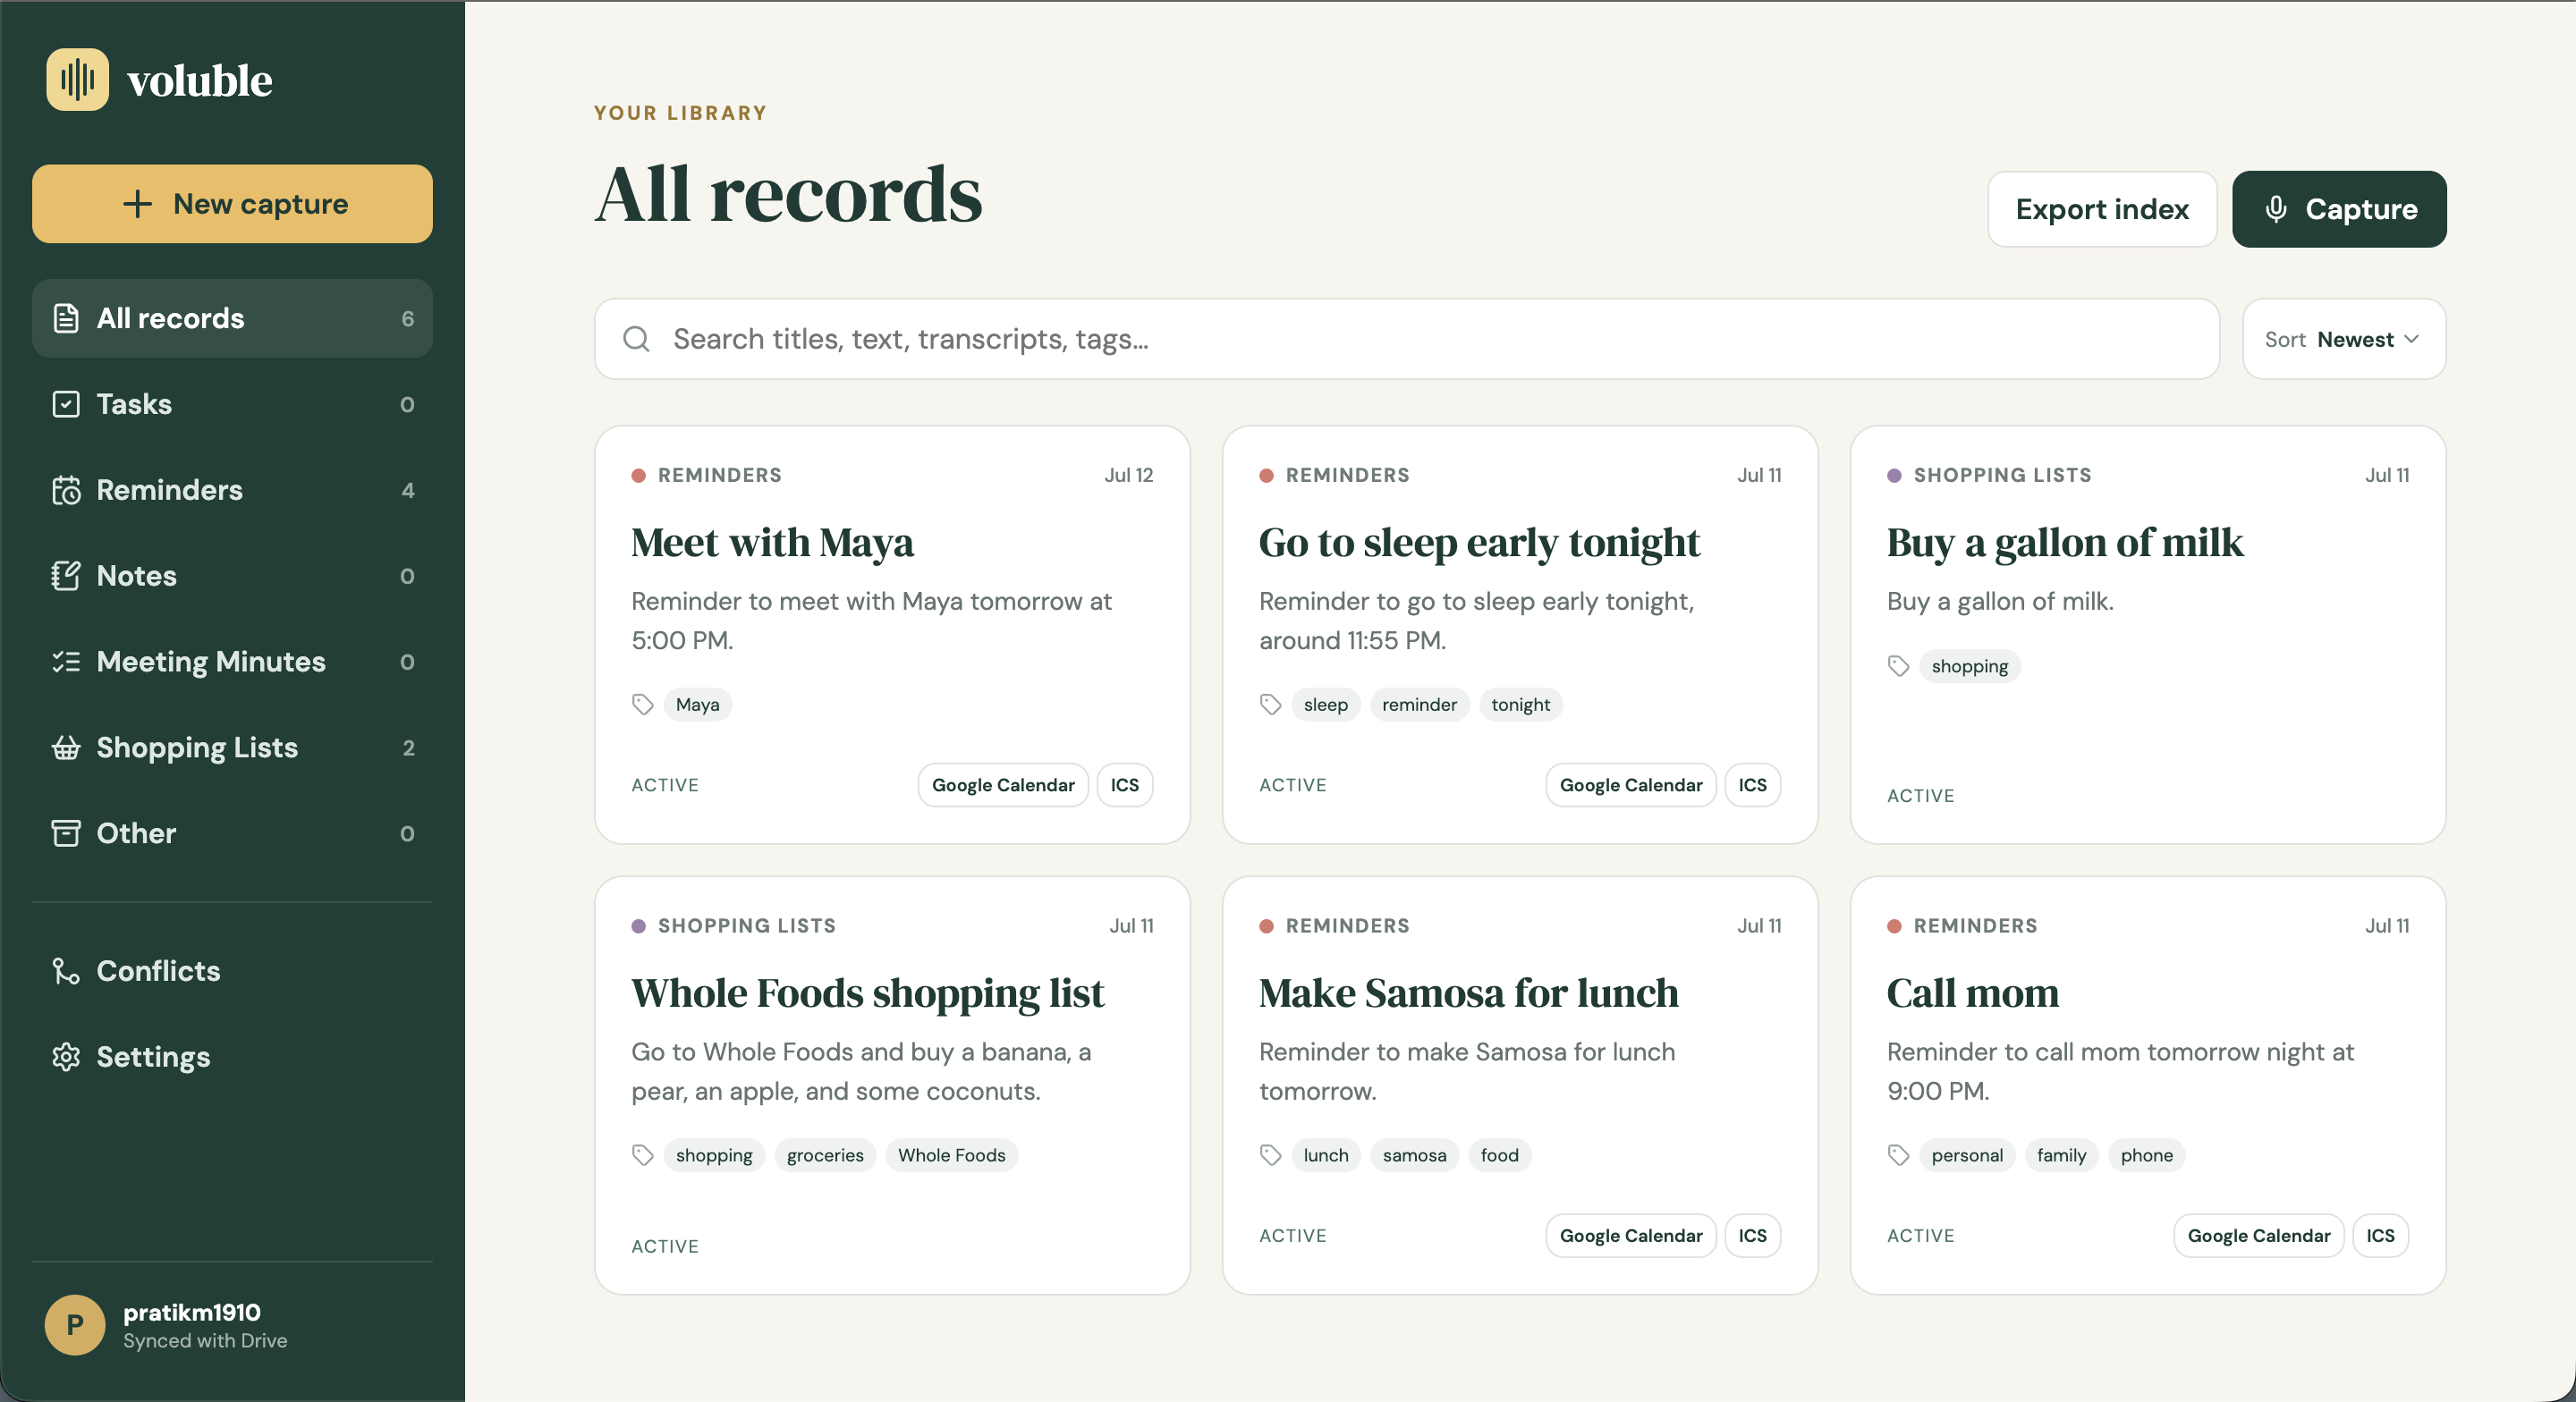
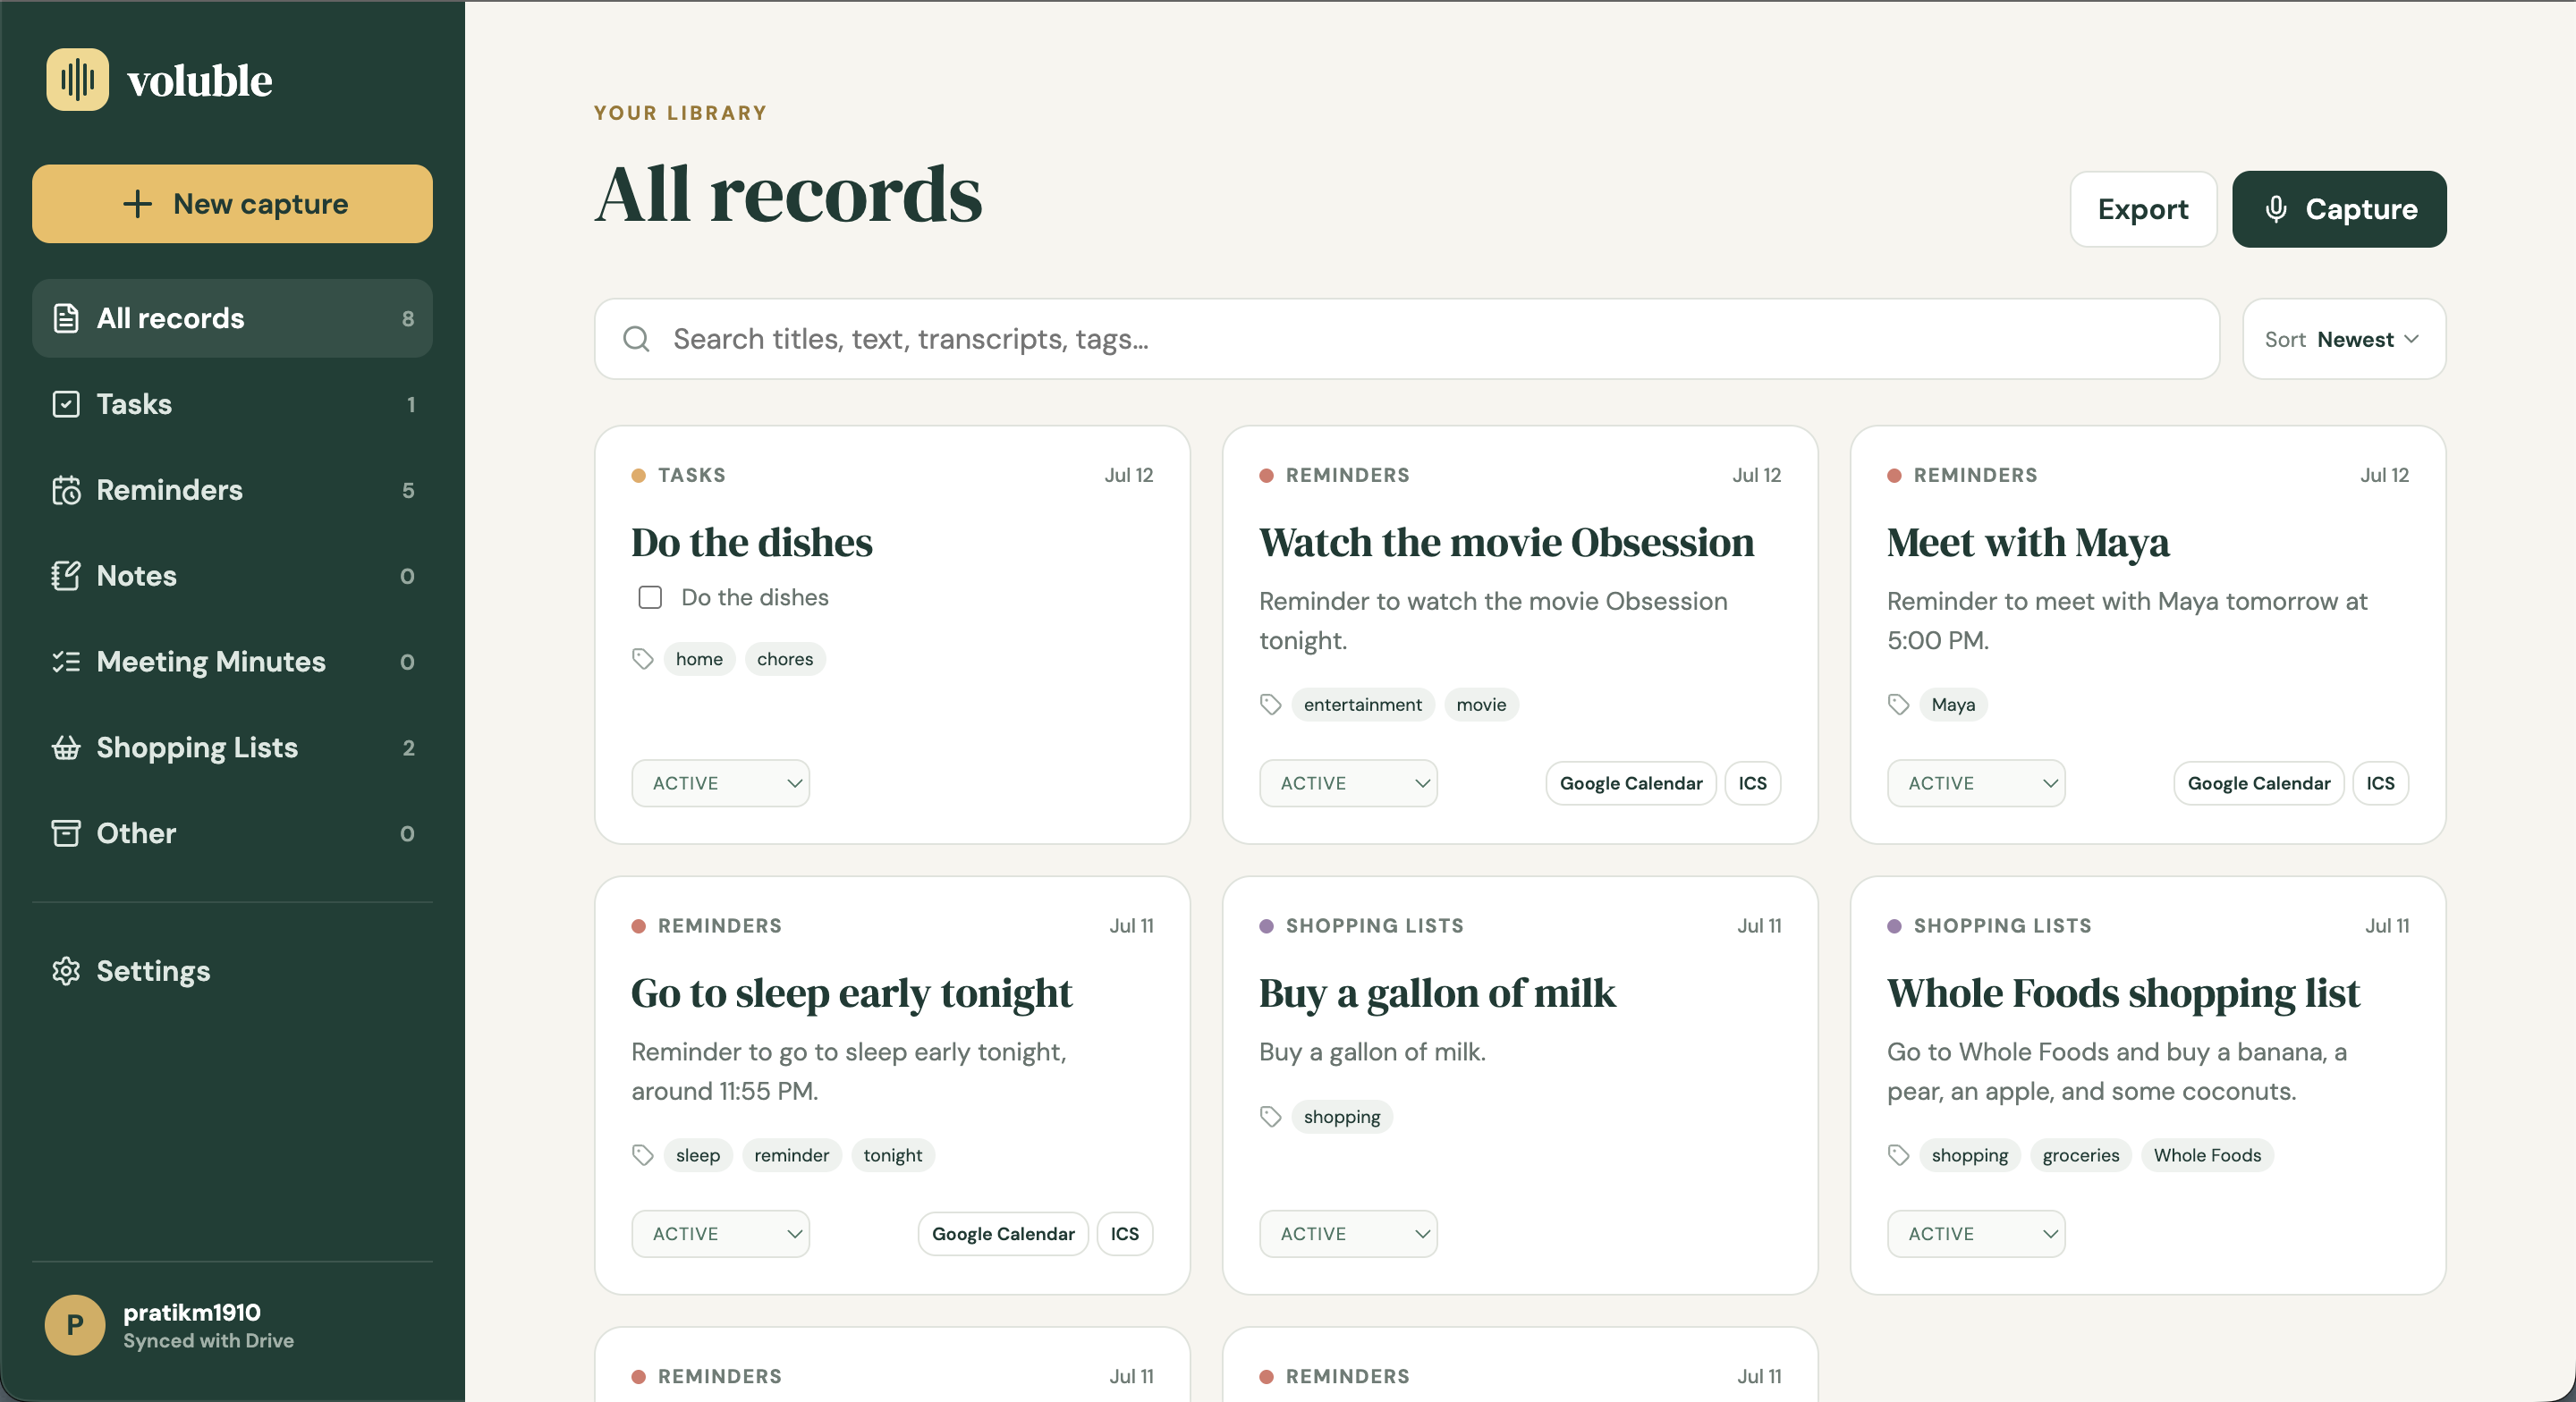
Update onboarding flow, misc feature improvements

diff --git a/src/components/RecordEditor.tsx b/src/components/RecordEditor.tsx
@@ -8,6 +8,8 @@ type Props = { record: VolubleRecord; timezone: string; onSave(record: VolubleRe
 export function RecordEditor({ record, timezone, onSave, onTrash, onClose }: Props) {
   const [draft, setDraft] = useState(record);
   const [eventTimezone, setEventTimezone] = useState(timezone);
+  const checklistKind = draft.category === 'Tasks' ? 'subtask' : 'shopping item';
+  const showsChecklist = draft.category === 'Tasks' || draft.category === 'Shopping Lists';
   useEffect(() => { setDraft(record); setEventTimezone(timezone); }, [record, timezone]);
   const update = <K extends keyof VolubleRecord>(key: K, value: VolubleRecord[K]) => setDraft((current) => ({ ...current, [key]: value }));
   const save = () => onSave(recordSchema.parse({
@@ -16,7 +18,10 @@ export function RecordEditor({ record, timezone, onSave, onTrash, onClose }: Pro
     event: draft.category === 'Reminders' ? draft.event : undefined,
     updatedAt: new Date().toISOString()
   }));
-  const updateItem = (id: string, value: Partial<VolubleRecord['tasks'][number]>) => update('tasks', draft.tasks.map((item) => item.id === id ? { ...item, ...value } : item));
+  const updateItem = (id: string, value: Partial<VolubleRecord['tasks'][number]>) => setDraft((current) => {
+    const tasks = current.tasks.map((item) => item.id === id ? { ...item, ...value } : item);
+    return { ...current, tasks, ...('completed' in value ? { status: tasks.length > 0 && tasks.every((item) => item.completed) ? 'completed' as const : 'active' as const } : {}) };
+  });
   return <div className="modal-backdrop" role="presentation" onMouseDown={(event) => event.target === event.currentTarget && onClose()}>
     <section className="editor" role="dialog" aria-modal="true" aria-label="Edit record">
       <header><div><span className="eyebrow">Edit record</span><input className="title-input" value={draft.title} onChange={(event) => update('title', event.target.value)} /></div><button className="icon-button" onClick={onClose} aria-label="Close"><X /></button></header>
@@ -25,13 +30,13 @@ export function RecordEditor({ record, timezone, onSave, onTrash, onClose }: Pro
         <label>Status<select value={draft.status} onChange={(event) => update('status', event.target.value as VolubleRecord['status'])}><option value="active">Active</option><option value="completed">Completed</option><option value="archived">Archived</option><option value="pending-processing">Pending</option></select></label>
         <label className="wide">Tags<input value={draft.tags.join(', ')} placeholder="work, follow-up" onChange={(event) => update('tags', event.target.value.split(',').map((tag) => tag.trim()).filter(Boolean))} /></label>
         <label className="wide">Text<textarea rows={9} value={draft.content} onChange={(event) => update('content', event.target.value)} /></label>
-        {draft.category === 'Shopping Lists' && <section className="shopping-checklist wide" aria-labelledby="shopping-items-heading">
-          <div className="shopping-checklist-heading"><div><h3 id="shopping-items-heading">Items to buy</h3><span>{draft.tasks.filter((item) => item.completed).length} of {draft.tasks.length} checked</span></div><button type="button" onClick={() => update('tasks', [...draft.tasks, { id: crypto.randomUUID(), text: '', completed: false }])}><Plus size={15} /> Add item</button></div>
+        {showsChecklist && <section className="shopping-checklist wide" aria-labelledby="checklist-items-heading">
+          <div className="shopping-checklist-heading"><div><h3 id="checklist-items-heading">{draft.category === 'Tasks' ? 'Subtasks' : 'Items to buy'}</h3><span>{draft.tasks.filter((item) => item.completed).length} of {draft.tasks.length} checked</span></div><button type="button" onClick={() => update('tasks', [...draft.tasks, { id: crypto.randomUUID(), text: '', completed: false }])}><Plus size={15} /> Add {checklistKind}</button></div>
           {draft.tasks.length ? <div className="shopping-items">{draft.tasks.map((item, index) => <div className={`shopping-item ${item.completed ? 'checked' : ''}`} key={item.id}>
-            <input type="checkbox" aria-label={`Mark ${item.text || `item ${index + 1}`} as bought`} checked={item.completed} onChange={(event) => updateItem(item.id, { completed: event.target.checked })} />
-            <input aria-label={`Shopping item ${index + 1}`} value={item.text} placeholder="Item to buy" onChange={(event) => updateItem(item.id, { text: event.target.value })} />
-            <button type="button" className="icon-button" aria-label={`Remove ${item.text || `item ${index + 1}`}`} onClick={() => update('tasks', draft.tasks.filter((candidate) => candidate.id !== item.id))}><X size={16} /></button>
-          </div>)}</div> : <p>Add each item you need to buy.</p>}
+            <input type="checkbox" aria-label={`Mark ${item.text || `${checklistKind} ${index + 1}`} as complete`} checked={item.completed} onChange={(event) => updateItem(item.id, { completed: event.target.checked })} />
+            <input aria-label={`${draft.category === 'Tasks' ? 'Subtask' : 'Shopping item'} ${index + 1}`} value={item.text} placeholder={draft.category === 'Tasks' ? 'Subtask' : 'Item to buy'} onChange={(event) => updateItem(item.id, { text: event.target.value })} />
+            <button type="button" className="icon-button" aria-label={`Remove ${item.text || `${checklistKind} ${index + 1}`}`} onClick={() => update('tasks', draft.tasks.filter((candidate) => candidate.id !== item.id))}><X size={16} /></button>
+          </div>)}</div> : <p>{draft.category === 'Tasks' ? 'Break this task into smaller steps.' : 'Add each item you need to buy.'}</p>}
         </section>}
         {draft.originalTranscript && <details className="transcript-details wide"><summary>Original transcript</summary><div>{draft.originalTranscript}</div></details>}
         {draft.category === 'Reminders' && <label className="event-toggle wide"><input type="checkbox" checked={Boolean(draft.event)} onChange={(event) => update('event', event.target.checked ? { start: new Date().toISOString(), allDay: false } : undefined)} /><Calendar size={18} /> Calendar event</label>}

diff --git a/src/App.tsx b/src/App.tsx
@@ -1,5 +1,5 @@
 import { useEffect, useMemo, useRef, useState } from 'react';
-import { Archive, CalendarClock, CheckSquare2, ChevronDown, CircleAlert, FileText, FolderPlus, ListChecks, LogOut, Menu, Mic, NotebookPen, Plus, Search, Settings as SettingsIcon, ShoppingBasket, Sparkles, X } from 'lucide-react';
+import { Archive, CalendarClock, CheckSquare2, ChevronDown, CircleAlert, FileText, FolderPlus, KeyRound, ListChecks, LogOut, Menu, Mic, NotebookPen, Plus, Search, Settings as SettingsIcon, ShoppingBasket, Sparkles, X } from 'lucide-react';
 import { ApiError, api } from './api/client';
 import { categories, createRecord, recordSchema, type Category, type VolubleRecord } from './domain/record';
 import { repairTranscript } from './domain/markdown';
@@ -161,6 +161,7 @@ export default function App() {
 
   const nav = <aside className={mobileNav ? 'sidebar open' : 'sidebar'}><div className="sidebar-top"><Brand /><button className="icon-button nav-close" onClick={() => setMobileNav(false)}><X /></button></div><button className="new-capture" onClick={() => { startCapture(); setMobileNav(false); }}><Plus /> New capture</button><nav className="side-nav"><button className={view === 'All' ? 'selected' : ''} onClick={() => setView('All')}><FileText /> All records <span>{records.length}</span></button>{categories.map((category) => { const Icon = iconFor[category]; return <button key={category} className={view === category ? 'selected' : ''} onClick={() => { setView(category); setMobileNav(false); }}><Icon /> {category}<span>{records.filter((record) => record.category === category).length}</span></button>; })}<hr /><button className={view === 'Settings' ? 'selected' : ''} onClick={() => setView('Settings')}><SettingsIcon /> Settings</button></nav><div className="profile-control"><button className="user-card" onClick={() => setProfileOpen((open) => !open)}><div>{session.user.email.slice(0, 1).toUpperCase()}</div><span><strong>{session.user.email.split('@')[0]}</strong><small>{sync === 'idle' ? 'Synced with Drive' : sync === 'syncing' ? 'Syncing…' : sync === 'offline' ? 'Offline' : sync === 'disconnected' ? 'Drive disconnected' : 'Pending sync'}</small></span></button>{profileOpen && <div className="profile-menu"><span>{session.user.email}</span><button onClick={() => void profileLogout()}><LogOut size={15} /> Log out</button></div>}</div></aside>;
   return <div className="app-shell">{nav}<main className="content"><header className="mobile-header"><button className="icon-button" onClick={() => setMobileNav(true)}><Menu /></button><Brand /><button className="icon-button" onClick={startCapture}><Mic /></button></header>{message && <div className={`banner ${sync === 'disconnected' ? 'error' : ''}`}><CircleAlert /> {message}{sync === 'disconnected' && <a className="button-link" href="/api/auth/login">Reconnect</a>}<button onClick={() => setMessage('')}><X /></button></div>}
+    {session.drive.folderId && !providerConfigured && <div className="onboarding"><KeyRound /><div><strong>Add your provider API key</strong><p>Your Drive folder is ready. Add an OpenAI or Gemini API key in Settings before starting your first capture.</p></div><div className="folder-actions"><button className="primary" onClick={() => { setView('Settings'); setMobileNav(false); }}>Open Settings</button></div></div>}
     {view === 'Settings' ? <Settings preferences={preferences} onPreferences={setPreferences} folderId={session.drive.folderId} onChooseFolder={() => void chooseFolder()} onCreateFolder={() => setNewFolderOpen(true)} onSignedOut={() => setSession(undefined)} onNotice={setMessage} onProviderConfigured={() => { setProviderConfigured(true); setMessage('Provider key saved. You are ready to capture.'); }} /> : <>
       <div className="section-heading library-heading"><div><span className="eyebrow">Your library</span><h1>{view === 'All' ? 'All records' : view}</h1></div><div className="heading-actions"><button onClick={() => setExportOpen(true)}>Export</button><button className="primary desktop-capture" onClick={startCapture}><Mic size={17} /> Capture</button></div></div>
       {!session.drive.folderId && <div className="onboarding"><CloudIcon /><div><strong>Choose your Voluble folder</strong><p>Use an existing folder or create a new one in My Drive. Voluble will never silently switch it.</p></div><div className="folder-actions"><button onClick={() => setNewFolderOpen(true)}><FolderPlus size={17} /> Create new folder</button><button className="primary" onClick={() => void chooseFolder()}>Choose existing folder</button></div></div>}

diff --git a/src/components/RecordCard.tsx b/src/components/RecordCard.tsx
@@ -16,6 +16,7 @@ type Props = {
 
 export function RecordCard({ record, readOnly, processing, onEdit, onSave, onRetry, onDownload }: Props) {
   const update = (value: Partial<VolubleRecord>) => onSave({ ...record, ...value, updatedAt: new Date().toISOString() });
+  const showsChecklist = record.category === 'Tasks' || record.category === 'Shopping Lists';
   const toggleTask = (id: string, completed: boolean) => {
     const tasks = record.tasks.map((task) => task.id === id ? { ...task, completed } : task);
     update({ tasks, status: tasks.length && tasks.every((task) => task.completed) ? 'completed' : 'active' });
@@ -23,7 +24,7 @@ export function RecordCard({ record, readOnly, processing, onEdit, onSave, onRet
   return <article className="record-card" onClick={onEdit}>
     <div className="record-meta"><span className={`category-dot c-${categories.indexOf(record.category)}`} />{record.category}<time>{new Date(record.updatedAt).toLocaleDateString(undefined, { month: 'short', day: 'numeric' })}</time></div>
     <h2>{record.title}</h2>
-    {record.category === 'Tasks' ? <div className="card-tasks">{record.tasks.length ? record.tasks.map((task) => <label key={task.id} onClick={(event) => event.stopPropagation()}><input type="checkbox" checked={task.completed} disabled={readOnly} onChange={(event) => toggleTask(task.id, event.target.checked)} /><span>{task.text}</span></label>) : <label onClick={(event) => event.stopPropagation()}><input type="checkbox" checked={record.status === 'completed'} disabled={readOnly} onChange={(event) => update({ status: event.target.checked ? 'completed' : 'active' })} /><span>{record.content || record.title}</span></label>}</div> : <p>{record.content || record.originalTranscript || 'No text yet'}</p>}
+    {showsChecklist ? <div className="card-tasks">{record.tasks.length ? record.tasks.map((task) => <label key={task.id} onClick={(event) => event.stopPropagation()}><input type="checkbox" checked={task.completed} disabled={readOnly} onChange={(event) => toggleTask(task.id, event.target.checked)} /><span>{task.text}</span></label>) : <label onClick={(event) => event.stopPropagation()}><input type="checkbox" checked={record.status === 'completed'} disabled={readOnly} onChange={(event) => update({ status: event.target.checked ? 'completed' : 'active' })} /><span>{record.content || record.title}</span></label>}</div> : <p>{record.content || record.originalTranscript || 'No text yet'}</p>}
     {record.tags.length > 0 && <div className="tags"><Tag />{record.tags.slice(0, 3).map((tag) => <span key={tag}>{tag}</span>)}</div>}
     <footer><label className="card-status" onClick={(event) => event.stopPropagation()}><select aria-label={`Status for ${record.title}`} value={record.status} disabled={readOnly} onChange={(event) => update({ status: event.target.value as VolubleRecord['status'] })}>{statuses.map((status) => <option key={status} value={status}>{statusLabel(status)}</option>)}</select></label><div className="record-actions">{record.status === 'pending-processing' && <button className="retry-processing" disabled={processing || readOnly} onClick={(event) => { event.stopPropagation(); onRetry(); }}><RotateCw size={13} /> {processing ? 'Processing…' : 'Retry processing'}</button>}{record.category === 'Reminders' && record.event && <div className="calendar-actions"><button onClick={(event) => { event.stopPropagation(); window.open(googleCalendarUrl(record), '_blank', 'noopener'); }}>Google Calendar</button><button onClick={(event) => { event.stopPropagation(); onDownload(`${record.title}.ics`, generateIcs(record), 'text/calendar'); }}>ICS</button></div>}</div></footer>
   </article>;

diff --git a/README.md b/README.md
@@ -10,9 +10,9 @@ Voluble is a responsive React PWA with Vercel serverless APIs, Google OAuth and 
 
 ## Previews
 
-| Landing page | Record library | Voice recorder |
-| --- | --- | --- |
-| [![Voluble landing page](screenshots/Landing%20Page.png)](screenshots/Landing%20Page.png) | [![Voluble record library](screenshots/All%20records.png)](screenshots/All%20records.png) | [![Voluble voice recorder](screenshots/Recorder.png)](screenshots/Recorder.png) |
+| Landing page | Record library | Voice recorder | Shopping list |
+| --- | --- | --- | --- |
+| [![Voluble landing page](screenshots/Landing%20Page.png)](screenshots/Landing%20Page.png) | [![Voluble record library](screenshots/All%20Records.png)](screenshots/All%20Records.png) | [![Voluble voice recorder](screenshots/Recorder.png)](screenshots/Recorder.png) | [![Voluble shopping list](screenshots/Shopping%20List.png)](screenshots/Shopping%20List.png) |
 
 Select a preview to view it at full size.
 
@@ -22,8 +22,11 @@ Select a preview to view it at full size.
 - Uses on-device speech recognition when the browser and language pack support it.
 - Falls back to OpenAI or Gemini cloud transcription when configured.
 - Independently selects a provider for transcription and for cleanup/categorization.
+- Detects captures containing multiple useful record types and suggests splitting them into separate records.
+- Formats meeting minutes into speaker-attributed blocks when the transcription provider supports diarization.
 - Stores cleaned content alongside the original transcript for auditability.
-- Searches, sorts, filters, edits, recategorizes, completes, archives, and trashes records.
+- Searches, sorts, filters, edits, recategorizes, completes, archives, and deletes records.
+- Supports task checkboxes, editable shopping-list items, and status changes directly from record cards.
 - Synchronizes multiple devices through a user-selected Google Drive folder.
 - Resolves concurrent Drive edits automatically by keeping the newest timestamp.
 - Generates adjacent `.ics` calendar files and Google Calendar links without requesting Calendar access.
@@ -35,6 +38,8 @@ Select a preview to view it at full size.
 ### 1. Sign in and choose a Drive folder
 
 Select **Start with Google**, approve the requested `drive.file` permission, and either choose an existing folder with Google Picker or create a new folder in My Drive from Voluble. Folder selection is the first onboarding step; provider API keys remain locked until it is complete. Voluble creates its category structure inside the selected folder and never silently switches to a different folder.
+
+If Google sign-in cannot be completed, Voluble returns to the landing page with a clear error and a retry action instead of leaving the user on a raw API response.
 
 The resulting structure is:
 
@@ -62,22 +67,29 @@ Open **Settings** and choose providers independently:
 - **Cleanup and categorization:** none, OpenAI, or Gemini.
 - **Language:** the language used by local recognition and cloud transcription.
 
-If OpenAI or Gemini is selected, enter the corresponding provider key in Settings. Provider keys are not server environment variables. Voluble envelope-encrypts them and writes only the encrypted envelope to the selected Drive folder.
+After the Drive folder is connected, an onboarding banner directs new users to Settings to add a provider key. If OpenAI or Gemini is selected, enter the corresponding provider key there. Provider keys are not server environment variables. Voluble envelope-encrypts them and writes only the encrypted envelope to the selected Drive folder.
 
 ### 3. Capture a record
 
 Select **New capture** or **Capture**, start recording, and speak normally. Local interim results appear as you speak. During cloud transcription, Voluble converts microphone input to small 16 kHz mono WAV chunks in memory, sends them about every five seconds, and overwrites mutable audio buffers after use.
 
-If on-device recognition is unavailable, Voluble explains why and directs you to choose a cloud provider. If cleanup fails, the original transcript is preserved as a pending record. After correcting the provider or configuration issue, use **Retry processing** on that record to force another cleanup attempt without recording the audio again.
+If on-device recognition is unavailable or stops unexpectedly, Voluble automatically continues with the cloud fallback selected in Settings. If no usable fallback is configured, it shows an actionable explanation. If cleanup fails, the original transcript is preserved with a **Pending** status. After correcting the provider or configuration issue, use **Retry processing** on that record to force another cleanup attempt without recording the audio again.
+
+When one capture contains multiple independently useful categories, Voluble proposes an ideal split before saving. For example, “Remind me to go to Trader Joe's and buy onions, tomatoes, and carrots” can become both a reminder and a shopping list. You can create all suggested records, choose one suggestion, or keep the capture as a single record.
+
+For meeting minutes, cloud transcription attempts to detect speaker changes by voice similarity and formats the transcript into speaker blocks. Speakers receive neutral labels unless their names are explicitly available; Voluble does not guess identities.
 
 ### 4. Work with the library
 
-Use the sidebar to browse categories. Search includes titles, cleaned text, original transcripts, and tags. Open a record to edit its title, category, status, tags, text, transcript, and calendar fields.
+Use the sidebar to browse categories. Search includes titles, text, original transcripts, and tags. Change a record's status directly from its card. Task cards expose completion checkboxes, and checking every task marks the record completed.
+
+Open a record to edit its title, category, status, tags, and **Text**. The original transcript is read-only and collapsed by default, but can be expanded for auditability. Task details support editable subtasks, while shopping-list items can be added, renamed, checked, unchecked, or removed individually. Completing every subtask or shopping item marks its record completed. **Delete** moves the corresponding record to Drive trash.
 
 For records with event data:
 
 - **Google Calendar** opens a prefilled, user-initiated calendar page.
 - **ICS** downloads a standards-based calendar file for Apple Calendar and other clients.
+- **Time zone** defaults to the preference in Settings and can be changed for an individual record while editing its start and end times.
 
 Use **Export** to download either a ZIP of portable Markdown files or a complete JSON index. The Markdown and ICS files in Drive remain the canonical copy.
 
@@ -88,6 +100,7 @@ If Drive and the local copy changed concurrently, Voluble compares their `update
 ### 6. Understand account actions
 
 - **Sign out** removes the current session and local browser data but keeps the encrypted Google refresh token for a future login.
+- Select the profile name at the bottom of the sidebar to open the account menu and sign out.
 - **Disconnect Drive** revokes Google access, removes stored authentication metadata, and clears local data. Drive files remain untouched.
 - **Delete Voluble account** removes backend account state, sessions, encrypted tokens, folder pointers, cookies, and local caches. The selected Drive folder remains owned by the user and must be deleted manually if it is no longer wanted.
 